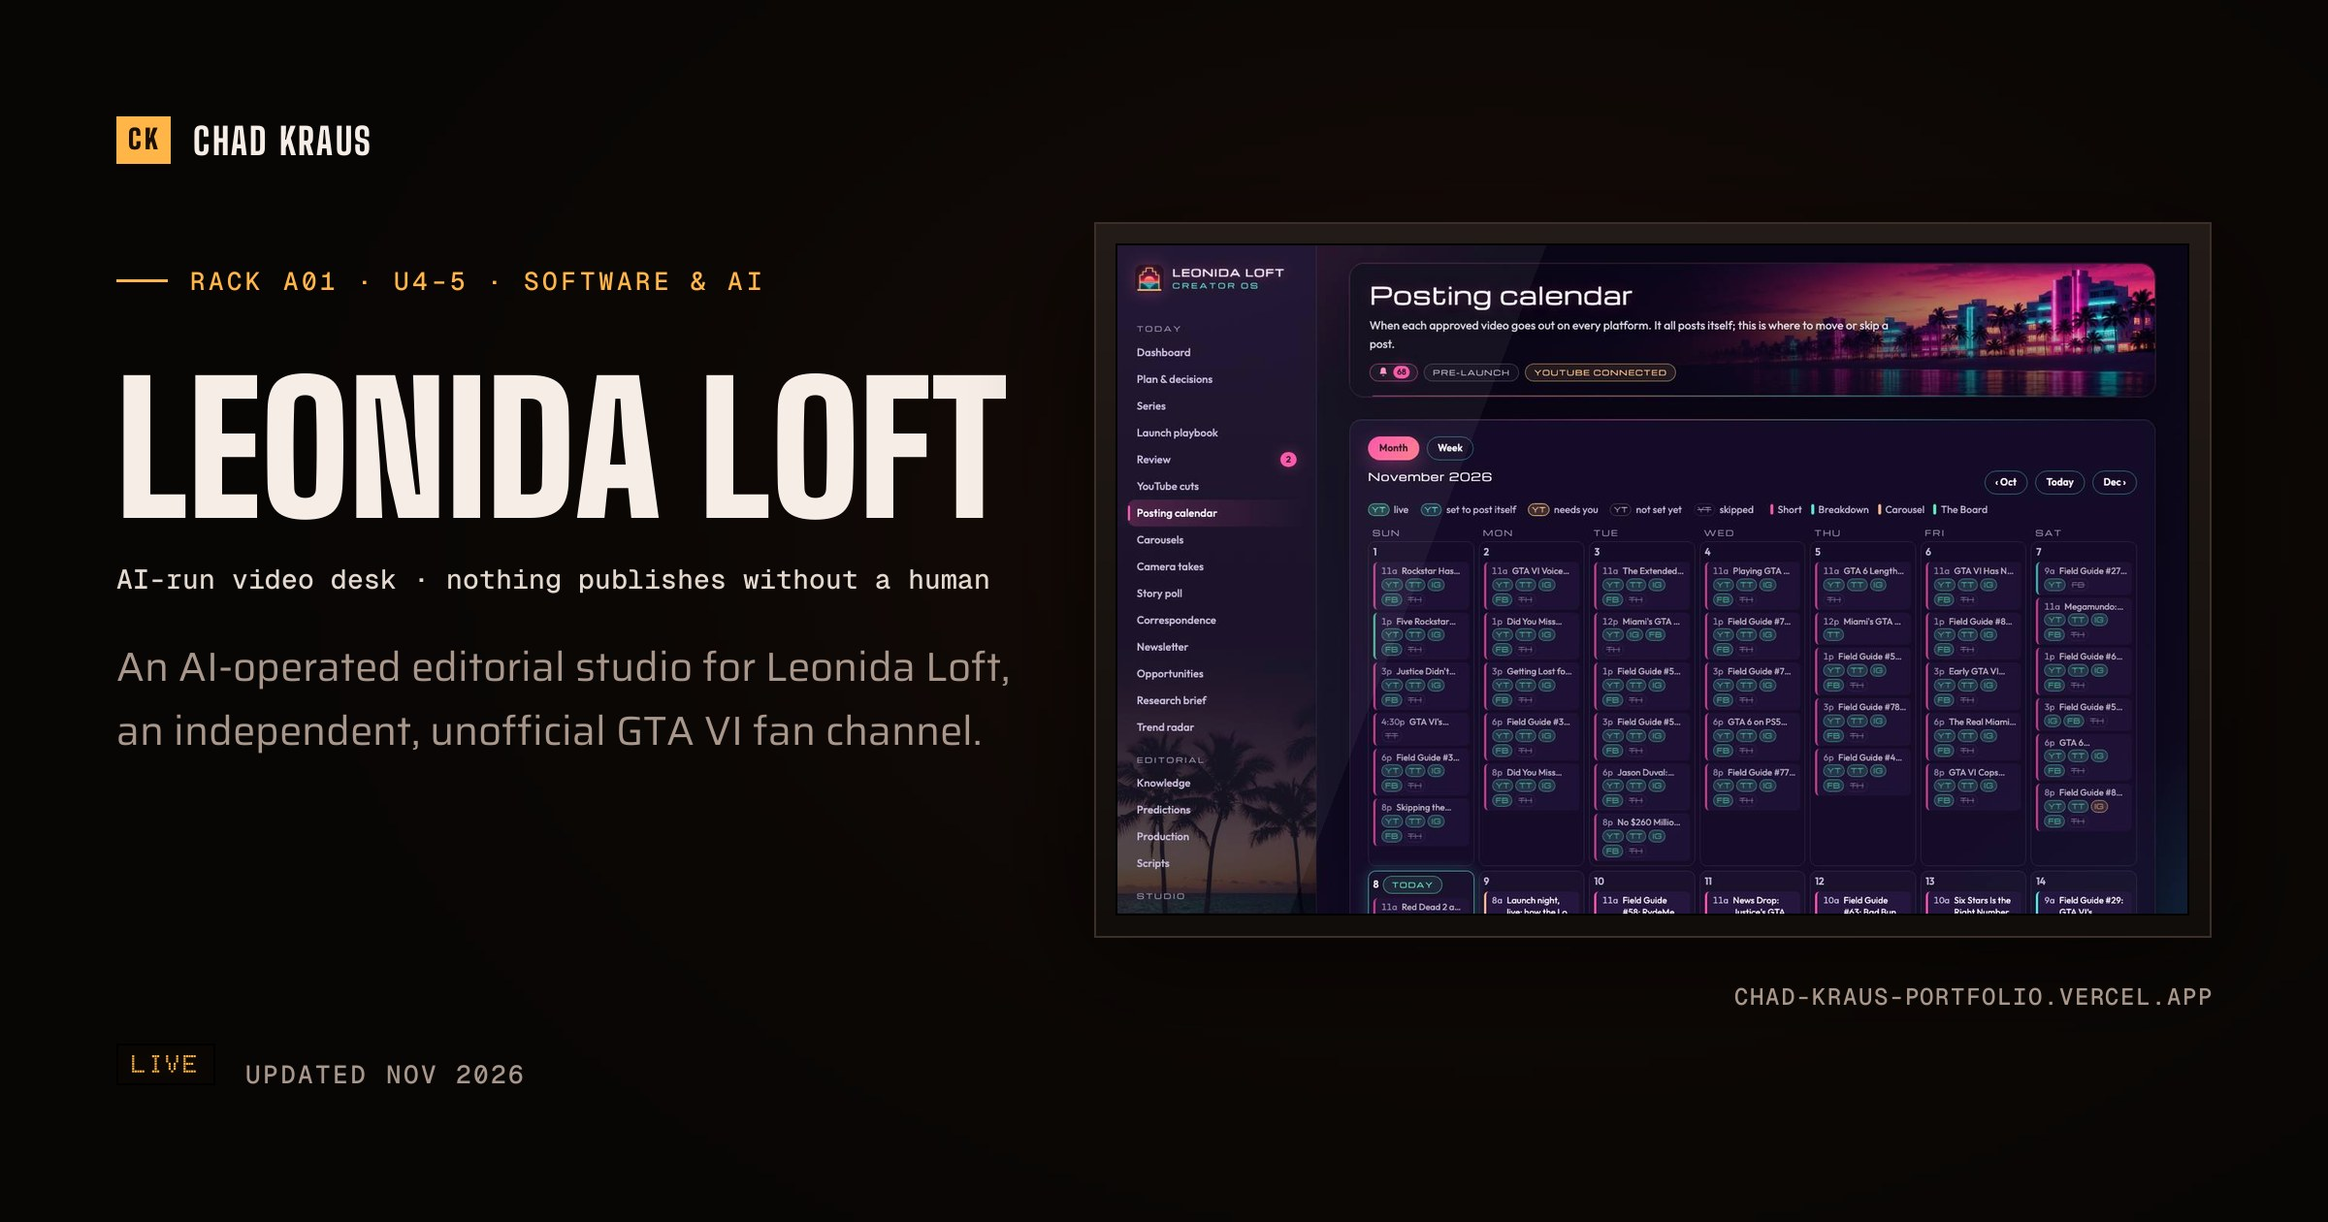
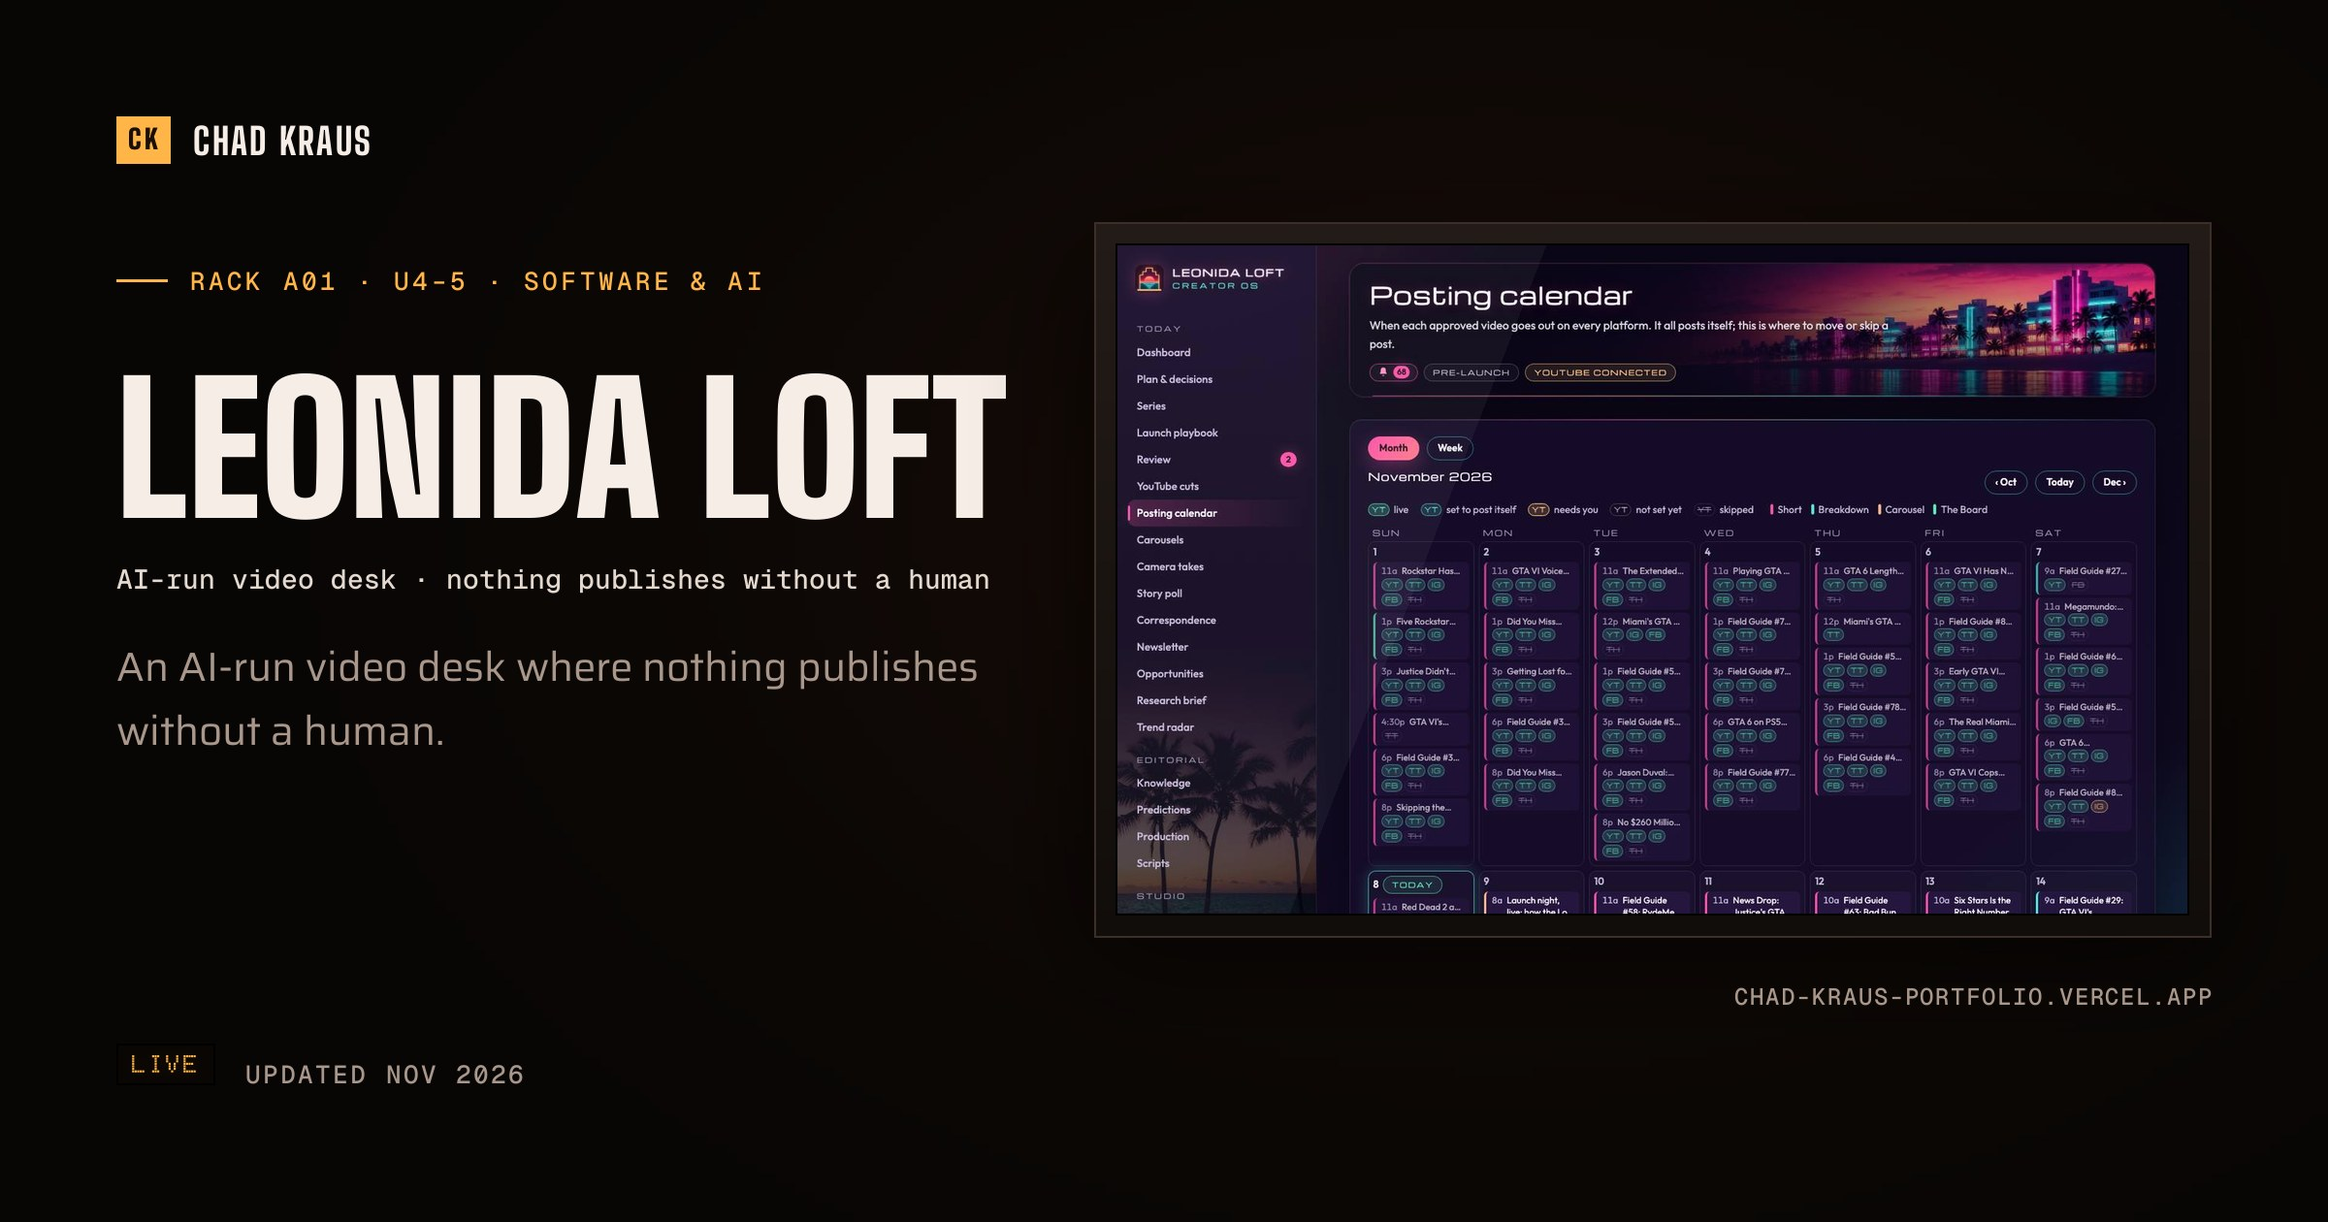
content: no zero on the hero, open interview picks, Leonida Loft facts
- Hero timeline: until someone uses it, a quiet latest week is announced
  without a zero count; the night shift lights the most recent week with
  commits, so the room never opens dark
- Interview pack and tour feature only projects that open without a sign-in:
  TechOps Command Center, HomeLab Commander and Packet & Pine
- Leonida Loft: opening leads with the system, Threads added, n8n's optional
  watches described, card and meta description match the new opening
- New dated results line in Proof ("As of November 2026: 260+ videos...")
- Tests for the timeline, the picks and the results line

Changed region(s): [[0.0312, 0.5881, 0.4375, 0.619], [0.0938, 0.5262, 0.4375, 0.5571]]

diff --git a/src/data/projects.js b/src/data/projects.js
@@ -19,6 +19,8 @@
 //               short; this is what sets every card's height in the grid.
 //   answers     optional "What it answers" paragraph on the case study. Defaults
 //               to the summary; set it when the case study should say more.
+//   results     optional { text, asOf } outcome line in the case study's Proof section,
+//               labelled with its asOf month so a fixed number never reads as live data.
 //   details     optional deeper writeup, shown on the project's own page and
 //               linked from the card as "Full write-up". Omit it for small
 //               projects. Do not repeat the summary — details continues from
@@ -136,23 +138,26 @@ export const projects = [
     updated: '2026-11',
     tagline: 'AI-run video desk · nothing publishes without a human',
     summary:
-      "An AI-operated editorial studio for Leonida Loft, an independent, unofficial GTA VI fan channel. It researches, writes, fact-checks, narrates and renders videos on one Mac, and nothing is published until a human approves it.",
+      "An AI-run video desk where nothing publishes without a human. It researches, writes, fact-checks, narrates and renders short videos on one Mac, then schedules them to YouTube, Instagram, TikTok, Facebook and Threads once I approve them. It runs Leonida Loft, an independent, unofficial GTA VI fan channel.",
+    answers:
+      "An AI-run video desk where nothing publishes without a human. It researches, writes, fact-checks, narrates and renders short videos on one Mac, then schedules them to YouTube, Instagram, TikTok, Facebook and Threads once I approve them. It runs Leonida Loft, an independent, unofficial GTA VI fan channel, and has published 260+ videos at about 5 a day since September 2026.",
     details:
-      "One local Node 24 process serves the dashboard, runs a durable job worker and a scheduler, and keeps everything in a single SQLite file. The desk tracks official sources, keeps a knowledge base where every fact carries its category, confidence, source and status, scores story opportunities, writes scripts, checks every claim, narrates, renders with Remotion and FFmpeg, runs QC and hands over a finished video to approve. The editorial core is deterministic: claims, rights, spoilers and scoring never depend on a model. AI proposes and writes, code decides what passes, and Claude Code is the default AI provider, so writing costs no API charges. Approval is enforced in the database, where the approvals table only accepts a human actor, and every post must pass a preflight check for its slot before it goes out to YouTube, Instagram, TikTok or Facebook. The dashboard binds to loopback, every change carries a per-page form token, and secrets live in the macOS Keychain, never in the database or the logs. leonidaloft.com is built from the published videos and their sources and served from Cloudflare Pages. Leonida Loft is not affiliated with Rockstar Games or Take-Two Interactive.",
+      "One local Node 24 process serves the dashboard, runs a durable job worker and a scheduler, and keeps everything in a single SQLite file. n8n runs alongside it only for optional watches (source page changes, backups, disk and render health, posting reminders) that raise dashboard alerts; they can't post, approve or write to the database. The desk tracks official sources, keeps a knowledge base where every fact carries its category, confidence, source and status, scores story opportunities, writes scripts, checks every claim, narrates, renders with Remotion and FFmpeg, runs QC and hands over a finished video to approve. The editorial core is deterministic: claims, rights, spoilers and scoring never depend on a model. AI proposes and writes, code decides what passes, and Claude Code is the default AI provider, so writing costs no API charges. Approval is enforced in the database, where the approvals table only accepts a human actor, and every post must pass a preflight check for its slot before it goes out to YouTube, Instagram, TikTok, Facebook or Threads. The dashboard binds to loopback, every change carries a per-page form token, and secrets live in the macOS Keychain, never in the database or the logs. leonidaloft.com is built from the published videos and their sources and served from Cloudflare Pages. Leonida Loft is not affiliated with Rockstar Games or Take-Two Interactive.",
     stack: ['TypeScript', 'Node.js', 'Hono', 'SQLite', 'Remotion', 'FFmpeg', 'Claude Code', 'Cloudflare Pages'],
     architecture: [
-      { layer: "Runtime", items: ["One local Node 24 process: dashboard, durable job worker and scheduler", "Everything in a single SQLite file"] },
+      { layer: "Runtime", items: ["One local Node 24 process: dashboard, durable job worker and scheduler", "Everything in a single SQLite file", "n8n alongside it only for optional watches that raise dashboard alerts"] },
       { layer: "Research", items: ["Tracks official sources", "Knowledge base where every fact carries its category, confidence, source and status"] },
       { layer: "Production", items: ["Scores story opportunities, writes scripts and checks every claim", "Narrates, renders with Remotion and FFmpeg, and runs QC"] },
       { layer: "Editorial core", items: ["Claims, rights, spoilers and scoring never depend on a model", "Claude Code is the default AI provider"] },
       { layer: "Approval", items: ["The approvals table only accepts a human actor", "Every post passes a preflight check for its slot"] },
       { layer: "Security", items: ["Dashboard bound to loopback, with a per-page form token on every change", "Secrets in the macOS Keychain, never in the database or the logs"] },
-      { layer: "Publishing", items: ["YouTube, Instagram, TikTok and Facebook", "leonidaloft.com on Cloudflare Pages"] },
+      { layer: "Publishing", items: ["YouTube, Instagram, TikTok, Facebook and Threads", "leonidaloft.com on Cloudflare Pages"] },
     ],
     image: LeonidaLoft,
     imageDate: '2026-11',
     projectLink: 'https://leonidaloft.com/',
     projectLinkLabel: 'Visit leonidaloft.com',
+    results: { text: '260+ videos published since September 15, 2026, at about 5 a day, across YouTube, Instagram, TikTok, Facebook and Threads.', asOf: 'November 2026' },
     repoLink: null, // repo is private
   },
   {

diff --git a/src/lib/serverRoom.js b/src/lib/serverRoom.js
@@ -813,6 +813,8 @@ export function mountServerRoom(root, { model, lenses, navigate, srcSetFor, form
   let replayTimer = 0;
   // While comparing, the week the drag started from stays outlined behind the current one.
   let compareWeek = null;
+  // Until someone uses the timeline, a quiet latest week is announced without its zero count.
+  let touched = false;
   function showWeek(k) {
     const w = weekSnapshot(model.activity, P, k);
     const ref = compareWeek === null || compareWeek === k ? null : weekSnapshot(model.activity, P, compareWeek);
@@ -824,7 +826,8 @@ export function mountServerRoom(root, { model, lenses, navigate, srcSetFor, form
     root.classList.toggle('is-timeline', k !== lastWeek);
     weekBars.forEach((bar, i) => bar.classList.toggle('is-on', i === k));
     const downNames = P.filter((p) => w.down.has(p.slug)).map((p) => p.title);
-    const text = `Week of ${formatDay(w.start)}${k === lastWeek ? ' (latest)' : ''} · ${w.total} public commit${w.total === 1 ? '' : 's'}${downNames.length ? ` · demo down: ${downNames.join(', ')}` : ''}`;
+    const count = !touched && k === lastWeek && !w.total ? '' : ` · ${w.total} public commit${w.total === 1 ? '' : 's'}`;
+    const text = `Week of ${formatDay(w.start)}${k === lastWeek ? ' (latest)' : ''}${count}${downNames.length ? ` · demo down: ${downNames.join(', ')}` : ''}`;
     // The control is narrow and the "Week" label beside it already says what this is.
     // At rest (the latest week, nothing compared) it reads "Latest week" rather than a
     // count, so a quiet week never greets a visitor as "0 commits". Scrubbing back shows
@@ -848,7 +851,7 @@ export function mountServerRoom(root, { model, lenses, navigate, srcSetFor, form
     if (k >= lastWeek) { stopReplay(); return; }
     replayTimer = later(() => replayFrom(k + 1), 1400);
   }
-  on(weekRange, 'input', () => { stopReplay(); compareWeek = null; root.classList.remove('is-compare'); showWeek(Number(weekRange.value)); });
+  on(weekRange, 'input', () => { touched = true; stopReplay(); compareWeek = null; root.classList.remove('is-compare'); showWeek(Number(weekRange.value)); });
   // Click or drag across the bars to scrub the weeks, with the racks lighting as you
   // go. Pointer only: the slider beside it is the keyboard control, and the bars stay
   // out of the tab order. The week is spoken once, on release, not on every step.
@@ -865,6 +868,7 @@ export function mountServerRoom(root, { model, lenses, navigate, srcSetFor, form
     showWeek(k);
   };
   on(sparkEl, 'pointerdown', (e) => {
+    touched = true;
     stopReplay();
     sparkBox = sparkEl.getBoundingClientRect();
     sparkEl.setPointerCapture(e.pointerId);
@@ -885,6 +889,7 @@ export function mountServerRoom(root, { model, lenses, navigate, srcSetFor, form
   on(replayBtn, 'click', () => {
     if (replayBtn.getAttribute('aria-pressed') === 'true') { stopReplay(); return; }
     replayBtn.setAttribute('aria-pressed', 'true');
+    touched = true;
     track('timeline/replay');
     replayFrom(0);
   });

diff --git a/e2e/site.spec.js b/e2e/site.spec.js
@@ -431,6 +431,8 @@ test('the weekly digest reports the four latest full weeks from real data', asyn
 
 test('the interview pack lists the three interview projects with proof, and the snapshot', async ({ page }) => {
   await page.goto('/interview-pack');
+  // Every featured project opens without a sign-in.
+  await expect(page.locator('main')).not.toContainText(/sign-in required/i);
   await expect(page.getByRole('heading', { level: 1 })).toHaveText('Chadwick (Chad) Kraus');
   await expect(page.locator('.ip-project')).toHaveCount(3);
   await expect(page.locator('.ip-proof').first()).toContainText('recorded demo');
@@ -447,9 +449,11 @@ test('now shows the latest week, work in progress and demo health from site data
   await expect(page.locator('main')).toContainText('live demos');
 });
 
-test('night shift: after 7pm only units with commits this week stay lit, and axe still passes', async ({ page }) => {
-  const activity = JSON.parse(readFileSync('src/data/activity.json', 'utf8'));
-  const onShift = Object.values(activity.repos).filter((r) => r.weeks.at(-1) > 0).length;
+test('night shift: after 7pm only units from the latest week with commits stay lit, and axe still passes', async ({ page }) => {
+  const repos = Object.values(JSON.parse(readFileSync('src/data/activity.json', 'utf8')).repos);
+  // A quiet latest week falls back to the most recent week anyone committed, so the room never opens dark.
+  const shift = Math.max(0, ...repos.map((r) => r.weeks.findLastIndex((n) => n > 0)));
+  const onShift = repos.filter((r) => r.weeks[shift] > 0).length;
   await page.clock.setFixedTime(new Date('2026-09-14T22:00:00'));
   await page.emulateMedia({ reducedMotion: 'reduce' });
   await page.goto('/');
@@ -984,4 +988,17 @@ test('a case study says what it answers in its own words, and falls back to the 
   await expect(page.getByText('Most AI advice skips the question an IT person asks first')).toBeVisible();
   await page.goto('/projects/coachrhythm/');
   await expect(page.getByText('A programming assistant for personal trainers').first()).toBeVisible();
+});
+
+test('the week timeline never announces a zero count before anyone uses it', async ({ page }) => {
+  await page.goto('/');
+  await expect(page.locator('.sr-week-out')).toHaveText('Latest week');
+  await expect(page.locator('.sr-week-range')).not.toHaveAttribute('aria-valuetext', /\b0 public commits\b/);
+});
+
+test('a results line carries its as-of month, and only where one is written', async ({ page }) => {
+  await page.goto('/projects/leonida-loft/');
+  await expect(page.locator('.cs-results')).toContainText(/^As of [A-Z][a-z]+ \d{4}/);
+  await page.goto('/projects/coachrhythm/');
+  await expect(page.locator('.cs-results')).toHaveCount(0);
 });

diff --git a/src/components/ServerRoom.jsx b/src/components/ServerRoom.jsx
@@ -30,6 +30,9 @@ function makeHall(count, seed) {
 const HALLS = [['far', makeHall(13, 1337)], ['near', makeHall(9, 42)]];
 const RAIL = Array.from({ length: RACK_U }, (_, k) => RACK_U - k);
 const RANGE = activityRange(RACK_MODEL.activity);
+// The most recent week anyone committed: the night shift lights that week's units, so a
+// quiet week never opens the room dark.
+const SHIFT_WEEK = Math.max(0, ...RACK_MODEL.projects.map((p) => p.act?.weeks.findLastIndex((n) => n > 0) ?? -1));
 const WEEK_COUNT = Math.max(1, ...Object.values(RACK_MODEL.activity.repos).map((r) => r.weeks.length));
 // Public commits per week across every tracked repo, for the timeline's sparkline.
 const WEEK_TOTALS = Array.from({ length: WEEK_COUNT }, (_, k) =>
@@ -64,7 +67,7 @@ function Unit({ p, first, rack }) {
   return (
     <button
       type="button"
-      className={`unit${p.act ? '' : ' nodata'}${blink ? ' active' : ''}${p.demoDown ? ' down' : ''}${p.act?.weeks.at(-1) > 0 ? ' on-shift' : ''}`}
+      className={`unit${p.act ? '' : ' nodata'}${blink ? ' active' : ''}${p.demoDown ? ' down' : ''}${p.act?.weeks[SHIFT_WEEK] > 0 ? ' on-shift' : ''}`}
       data-i={p.i}
       aria-pressed="false"
       tabIndex={first ? 0 : -1}
@@ -193,7 +196,7 @@ export default function ServerRoom() {
             <Link viewTransition to="/resume" className="btn btn-primary">View resume</Link>
             <a href="/?tour=hiring" className="btn">Walk through three projects</a>
           </p>
-          <p className="sr-shift">Night shift: only units with public commits this week are lit.</p>
+          <p className="sr-shift">Night shift: only units with the latest public commits are lit.</p>
         </div>
 
         <canvas className="sr-motes" aria-hidden="true" />

diff --git a/src/lib/projectMeta.js b/src/lib/projectMeta.js
@@ -53,8 +53,10 @@ export function portfolioCount(projects) {
 // Interview mode and the interview pack: the three most active live projects with a
 // recorded demo, and what the project data says about each. Nothing is written by hand.
 const TEST_TOOLS = /playwright|vitest|jest|axe/i;
+// Live, with a recorded demo, and open without a sign-in, so a reviewer can follow every
+// link in the pack and the tour.
 export function interviewPicks(projects) {
-  return projects.filter((p) => p.demo && p.projectLink).sort((a, b) => (b.act?.total ?? 0) - (a.act?.total ?? 0)).slice(0, 3);
+  return projects.filter((p) => p.demo && p.projectLink && !p.signIn).sort((a, b) => (b.act?.total ?? 0) - (a.act?.total ?? 0)).slice(0, 3);
 }
 export function proofOf(p) {
   const bits = [p.status, 'recorded demo'];

diff --git a/src/pages/ProjectDetail.css b/src/pages/ProjectDetail.css
@@ -19,6 +19,8 @@
 .cs-stack li { padding: 7px 9px; border: 1px solid var(--line-2); font: 500 11.5px/1 var(--f-mono); color: var(--muted); }
 .cs-actions { display: flex; flex-wrap: wrap; gap: 8px; }
 .cs-path .cs-note { font-style: italic; color: var(--muted); }
+.cs-path .cs-results { margin-top: 18px; }
+.cs-asof { display: block; margin-bottom: 4px; font: 500 11px/1.4 var(--f-mono); letter-spacing: .08em; text-transform: uppercase; color: var(--muted); }
 
 .cs-side { position: sticky; top: calc(var(--nav-h) + 24px); align-self: start; display: grid; gap: 14px; padding: 20px; border: 1px solid var(--line-2); background: var(--surface); }
 .cs-side h2 { font: 500 11px/1 var(--f-mono); letter-spacing: .1em; text-transform: uppercase; color: var(--muted); }

diff --git a/src/pages/ProjectDetail.jsx b/src/pages/ProjectDetail.jsx
@@ -84,6 +84,7 @@ export default function ProjectDetail() {
               ) : (
                 <p className="cs-note">{p.linkNote || 'This project isn’t publicly linked. It runs on private infrastructure.'}</p>
               )}
+              {p.results && <p className="cs-results"><span className="cs-asof">As of {p.results.asOf}</span>{p.results.text}</p>}
               {p.projectLink && <UptimeStrip site={p.uptime} />}
             </li>
           </ol>
